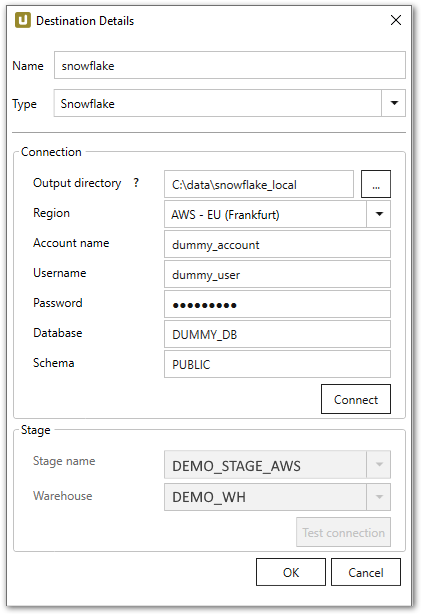
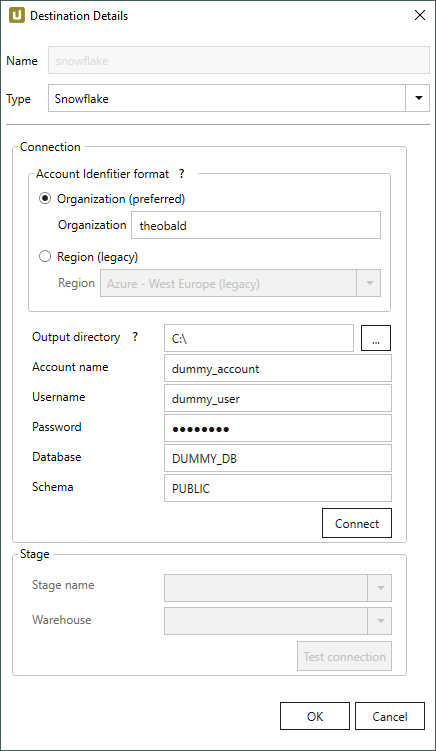
XU: Snowflake identification via organization

Changed region(s): [[0.0, 0.0, 1.0, 1.0], [0.3081, 0.4325, 0.3389, 0.4634]]

diff --git a/content/_de/xtract-universal/destinationen/snowflake.md b/content/_de/xtract-universal/destinationen/snowflake.md
@@ -32,6 +32,20 @@ Für mehr Informationen, siehe [Snowflake: ODBC Configuration and Connection Par
 
 #### Connection
 
+**Organization (preferred)**<br>
+Geben Sie den Namen der Organisation an. 
+Die Identifizierung über den Kontonamen in einer Organisation ist die von Snowflake bevorzugte Authentifizierungsmethode, siehe [Snowflake Dokumentation: Kontoname in Ihrer Organisation](https://docs.snowflake.com/de/user-guide/admin-account-identifier.html#format-1-preferred-account-name-in-your-organization)
+
+**Region**<br>
+Wählen Sie die Region der Snowflake-Umgebung aus.<br>
+In diesem Beispiel ist die Region *AWS - EU (Frankfurt)* ausgewählt. Die gewählte Region muss den Angaben im zugewiesen Account entsprechen. 
+
+{: .box-note}
+**Hinweis:** Regionen mit dem Suffix *(legacy)* sind veraltet. Die *Cloud Region ID* dieser Regionen wurde von Snowflake umbenannt.
+Wählen Sie die *(legacy)*-Option, wenn Sie sich über einen Link mit einer alten *Cloud Region ID* mit Snowflake verbinden. <br>
+Für mehr Informationen zu den aktuellen *Cloud Region IDs*, siehe [Snowflake Dokumentation: Supported Cloud Regions](https://docs.snowflake.com/en/user-guide/intro-regions.html).
+
+
 **Output directory**<br>
 Angabe eines lokalen Verzeichnisses, in das die extrahierten Daten als csv-Datei abgelegt werden.
 
@@ -41,14 +55,6 @@ Wenn der Extraktionsvorgang noch nicht abgeschlossen ist, wird eine neue csv-Dat
 Das lokale Verzeichnis und der Staging-Bereich werden im Verlauf der Extraktion geleert, d.h., die erzeugten csv-Dateien werden wieder gelöscht.<br>
 Für weitere Informationen, siehe [File Splitting](#file-splitting). 
 
-**Region**<br>
-Wählen Sie die Region der Snowflake-Umgebung aus.<br>
-In diesem Beispiel ist die Region *AWS - EU (Frankfurt)* ausgewählt. Die gewählte Region muss den Angaben im zugewiesen Account entsprechen. 
-
-{: .box-note}
-**Hinweis:** Regionen mit dem Suffix *(legacy)* sind veraltet. Die *Cloud Region ID* dieser Regionen wurde von Snowflake umbenannt.
-Wählen Sie die *(legacy)*-Option, wenn Sie sich über einen Link mit einer alten *Cloud Region ID* mit Snowflake verbinden. <br>
-Für mehr Informationen zu den aktuellen *Cloud Region IDs*, siehe [Snowflake: Supported Cloud Regions](https://docs.snowflake.com/en/user-guide/intro-regions.html).
 
 **Account**<br>
 Name des vom Snowflake zugewiesenen Kontos.

diff --git a/content/_en/xtract-universal/destinations/snowflake.md b/content/_en/xtract-universal/destinations/snowflake.md
@@ -33,6 +33,21 @@ For more information, see [Snowflake: ODBC Configuration and Connection Paramete
 
 #### Connection
 
+**Organization (preferred)**<br>
+Enter the name of your organization.
+Authentication via the account name in your organization is the preferred way of identifying youself against Snowflake, see [Snowflake Documentation: Account Name in Your Organization](https://docs.snowflake.com/en/user-guide/admin-account-identifier.html#format-1-preferred-account-name-in-your-organization)
+
+**Region (legacy)**<br>
+Select the region of the Snowflake environment from the drop-down-menu.<br>
+In the example above, the region *AWS - EU (Frankfurt)* is selected. 
+The selected region must match the information in the assigned account. 
+
+{: .box-note}
+**Note:** Regions with the suffix *(legacy)* are deprecated.
+Select the *(legacy)* option if you connect to Snowflake using an old *Cloud Region ID*. <br>
+For more information on the current *Cloud Region IDs*, see [Snowflake Documentation: Supported Cloud Regions](https://docs.snowflake.com/en/user-guide/intro-regions.html).
+
+
 **Output Directory**<br>
 Enter an existing local directory in which the extracted data is written as a csv file.
 
@@ -42,15 +57,6 @@ If the extraction process is not finished, a new csv file is created and the pro
 While running an extraction, the csv files in the local directory and the staging area are deleted.<br>
 For more information, see [File Splitting](#file-splitting). 
 
-
-**Region**<br>
-Select the region of the Snowflake environment from the drop-down-menu.<br>
-In the example above, the region *AWS - EU (Frankfurt)* is selected. 
-The selected region must match the information in the assigned account. 
-
-Regions with the suffix *(legacy)* are deprecated.
-Select the *(legacy)* option if you connect to Snowflake using an old *Cloud Region ID*. <br>
-For more information on the current *Cloud Region IDs*, see [Snowflake: Supported Cloud Regions](https://docs.snowflake.com/en/user-guide/intro-regions.html).
 
 **Account**<br>
 Enter the Snowflake authentication account. In the given example it is: "dummy_account", see also the URL: <br>
